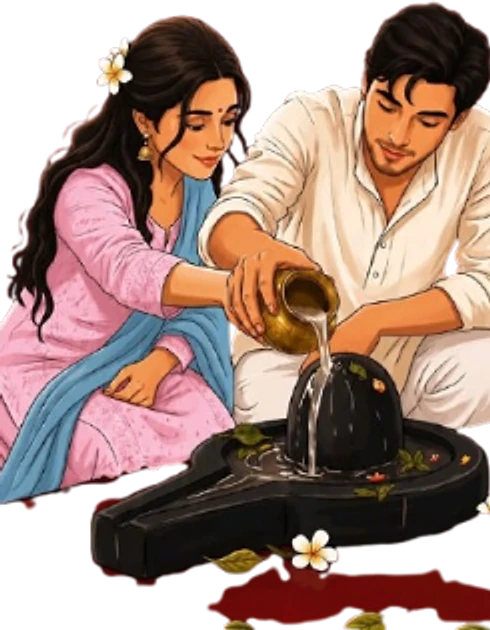
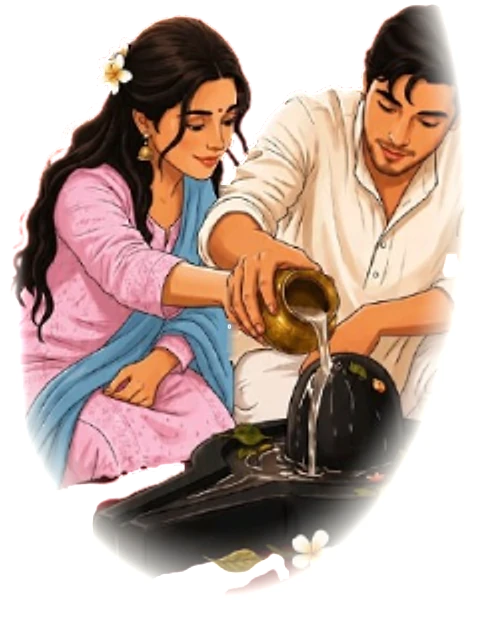
Phase 4: the couple at the Shivling, painted in like a watercolour
- The invitation glides up to the couple after 5 s of reading time unless
  the guest has already touched or scrolled (invitation.autoAdvanceMs)
- The gold thread continues into the section; the illustration blooms in
  through the watercolour mask while its colour deepens, then settles into
  soft generated clouds (they will part for the countdown)
- Names, "are beginning their forever" and a Lagna / Wedding Ceremony card
  with date, time (with zone) and venue from the config
- Illustration edges feathered into a white watercolour vignette; pinholes
  in the original cut-out mended

diff --git a/src/components/sections/Couple.tsx b/src/components/sections/Couple.tsx
@@ -1,0 +1,159 @@
+import { useMemo, useRef, type CSSProperties } from "react";
+import { wedding } from "@/config/wedding";
+import { useInView } from "@/hooks/useInView";
+import { usePrefersReducedMotion } from "@/hooks/useMediaQuery";
+import { EASE } from "@/lib/motion";
+import { formatVenueDate, parseVenueDateTime, venueInstant, zoneLabel } from "@/lib/venueTime";
+import { Reveal } from "@/components/ui/Reveal";
+
+/**
+ * Section 02 — a sacred beginning (PRD §4).
+ *
+ * The invitation's gold thread arrives from above. The couple at the
+ * Shivling paints itself in like a watercolour (a bloom that spreads while
+ * the colour deepens), settling into soft clouds; the names, the promise
+ * and the ceremony details follow. It plays once — scrolling away and back
+ * never repaints it.
+ */
+export function Couple() {
+  const ref = useRef<HTMLElement>(null);
+  const seen = useInView(ref, { threshold: 0.15 });
+  const reduced = usePrefersReducedMotion();
+  const at = (ms: number) => (reduced ? 0 : ms);
+
+  const { hero, couple, venue, assets } = wedding;
+
+  const details = useMemo(() => {
+    const parts = parseVenueDateTime(wedding.wedding.dateTime);
+    if (!parts) return null;
+    const date = formatVenueDate(parts);
+    const zone =
+      parts.hour === null ? null : zoneLabel(venueInstant(parts, wedding.wedding.timeZone), wedding.wedding.timeZone);
+    return { date, zone };
+  }, []);
+
+  const paint: CSSProperties = reduced
+    ? { opacity: seen ? 1 : 0, transition: "opacity 500ms linear" }
+    : {
+        opacity: seen ? 1 : 0,
+        maskSize: seen ? "320% 320%" : "30% 30%",
+        WebkitMaskSize: seen ? "320% 320%" : "30% 30%",
+        filter: seen ? "saturate(1) brightness(1)" : "saturate(0.3) brightness(1.1)",
+        transition: [
+          `opacity 700ms ease-out 150ms`,
+          `mask-size 2400ms ${EASE.silk} 150ms`,
+          `-webkit-mask-size 2400ms ${EASE.silk} 150ms`,
+          `filter 2600ms ${EASE.silk} 350ms`,
+        ].join(", "),
+      };
+
+  return (
+    <section
+      id="couple"
+      ref={ref}
+      aria-labelledby="couple-heading"
+      className="relative flex flex-col items-center px-[var(--gutter)] pb-12 text-center"
+    >
+      {/* The invitation's gold thread, continuing down */}
+      <span
+        aria-hidden
+        className="block h-14 w-px bg-gradient-to-b from-gold to-gold-ink/60"
+        style={{
+          transformOrigin: "top",
+          transform: seen ? "scaleY(1)" : "scaleY(0)",
+          transition: `transform 900ms ${EASE.silk}`,
+        }}
+      />
+
+      <Reveal
+        show={seen}
+        delay={at(250)}
+        as="p"
+        className="mt-3 font-sans text-[11px] font-medium uppercase tracking-eyebrow text-slate"
+      >
+        {hero.welcome}
+      </Reveal>
+
+      <figure className="relative mt-3 w-[min(86vw,370px)]">
+        <div
+          className="watercolor-reveal"
+          style={{ ...paint, "--watercolor-mask": `url(${assets.watercolorMask})` } as CSSProperties}
+        >
+          <img
+            src={assets.heroCouple}
+            alt={hero.illustrationAlt}
+            width={490}
+            height={630}
+            loading="lazy"
+            decoding="async"
+            className="block h-auto w-full"
+          />
+        </div>
+        {/* The painting settles into soft clouds */}
+        <img
+          src={assets.clouds}
+          alt=""
+          aria-hidden
+          loading="lazy"
+          decoding="async"
+          className="pointer-events-none absolute bottom-[-14%] left-1/2 w-[165%] max-w-none"
+          style={{
+            opacity: seen ? 1 : 0,
+            transform: seen ? "translate(-50%, 0)" : "translate(-50%, 18px)",
+            transition: reduced
+              ? "opacity 500ms linear"
+              : `opacity 1400ms ${EASE.silk} ${at(700)}ms, transform 1800ms ${EASE.silk} ${at(700)}ms`,
+          }}
+        />
+      </figure>
+
+      <h2
+        id="couple-heading"
+        className="relative -mt-6 font-display text-[clamp(34px,10vw,44px)] font-semibold leading-tight text-navy"
+      >
+        <Reveal show={seen} delay={at(1000)} as="span" className="block">
+          {couple.bride.displayName} <span className="font-medium italic text-gold-ink">&amp;</span>{" "}
+          {couple.groom.displayName}
+        </Reveal>
+      </h2>
+      <Reveal
+        show={seen}
+        delay={at(1200)}
+        as="p"
+        className="relative mt-1 font-script text-[32px] leading-tight text-gold-ink"
+      >
+        {hero.tagline}
+      </Reveal>
+
+      {details && (
+        <Reveal show={seen} delay={at(1450)} className="relative mt-7 w-full max-w-[22rem]">
+          <div className="rounded-[28px] border border-gold/60 bg-ivory/70 px-4 pb-5 pt-4 shadow-[0_14px_34px_-22px_rgb(23_59_86/0.45)] backdrop-blur-[2px]">
+            <p className="font-deva text-[18px] leading-none text-gold-ink" lang="hi">
+              {hero.ceremonyLabel}
+            </p>
+            <h3 className="mt-1 text-[26px]">{hero.ceremony}</h3>
+            <dl className="mt-4 grid grid-cols-3 divide-x divide-gold/50">
+              <Detail
+                label="Date"
+                value={`${details.date.day} ${details.date.monthShort} ${details.date.year}`}
+                note={details.date.weekday}
+              />
+              <Detail label="Time" value={details.date.time ?? "To be announced"} note={details.zone} />
+              <Detail label="Venue" value={venue.name} note={venue.city} />
+            </dl>
+          </div>
+        </Reveal>
+      )}
+    </section>
+  );
+}
+
+function Detail({ label, value, note }: { label: string; value: string; note: string | null }) {
+  return (
+    <div className="flex flex-col items-center px-2">
+      <dt className="font-sans text-[10px] font-medium uppercase tracking-eyebrow text-gold-ink">{label}</dt>
+      <dd className="mt-1.5 text-balance font-display text-[19px] font-semibold leading-tight text-navy">{value}</dd>
+      {note && <dd className="mt-0.5 font-sans text-[12px] text-slate">{note}</dd>}
+    </div>
+  );
+}

diff --git a/src/components/sections/Invitation.tsx b/src/components/sections/Invitation.tsx
@@ -3,6 +3,7 @@ import { wedding } from "@/config/wedding";
 import { useGuest } from "@/context/GuestContext";
 import { usePrefersReducedMotion } from "@/hooks/useMediaQuery";
 import { EASE } from "@/lib/motion";
+import { glideTo, USER_INPUT_EVENTS } from "@/lib/scroll";
 import { formatVenueDate, parseVenueDateTime } from "@/lib/venueTime";
 import { Ganpati } from "@/components/art/Ganpati";
 import { Emblem } from "@/components/ui/Emblem";
@@ -16,6 +17,7 @@ import { Reveal } from "@/components/ui/Reveal";
  * a ring, and Ganpati draws himself inside it. Then the mantra, the
  * blessing, the quote, the guest's greeting and the couple's names arrive
  * in a gentle stagger, closed by the date and a gold thread leading down.
+ * Once it has been read, it glides up and the couple's section rises in.
  */
 
 type Phase = "hidden" | "emblem" | "open";
@@ -24,6 +26,8 @@ type Phase = "hidden" | "emblem" | "open";
 const RING_SCALE = 0.469;
 /** How long the landed emblem rests before opening. */
 const EMBLEM_REST_MS = 560;
+/** From the medallion opening until the whole invitation is on screen. */
+const STAGGER_MS = 2800;
 
 export function Invitation({ revealed }: { revealed: boolean }) {
   const { guestName } = useGuest();
@@ -45,6 +49,30 @@ export function Invitation({ revealed }: { revealed: boolean }) {
   }, [revealed, reduced]);
 
   const open = phase === "open";
+
+  // Invitation → Hero (PRD §5): after reading time, glide up to the couple —
+  // unless the guest has already touched, scrolled or pressed anything.
+  useEffect(() => {
+    const readingMs = wedding.invitation.autoAdvanceMs;
+    if (!open || reduced || !readingMs) return;
+    let touched = false;
+    const onInput = () => {
+      touched = true;
+    };
+    USER_INPUT_EVENTS.forEach((type) => window.addEventListener(type, onInput, { passive: true }));
+    let stopGlide = () => {};
+    const timer = window.setTimeout(() => {
+      const next = document.getElementById("couple");
+      if (touched || !next || window.scrollY > 40) return;
+      stopGlide = glideTo(next.getBoundingClientRect().top + window.scrollY, 1600);
+    }, STAGGER_MS + readingMs);
+    return () => {
+      clearTimeout(timer);
+      stopGlide();
+      USER_INPUT_EVENTS.forEach((type) => window.removeEventListener(type, onInput));
+    };
+  }, [open, reduced]);
+
   // The stagger, in ms after the medallion opens (all at once with reduced motion).
   const at = (ms: number) => (reduced ? 0 : ms);
 

diff --git a/src/config/wedding.ts b/src/config/wedding.ts
@@ -33,6 +33,20 @@ export const wedding = {
     quote: "Two hearts, one sacred journey,\nblessed by the divine.",
     greeting: "Dear {guest},",
     request: "request the honour of your presence at their wedding",
+    /**
+     * Once the invitation has been on screen this long (ms) and the guest
+     * hasn't touched anything, it glides up to reveal the couple. 0 = never.
+     */
+    autoAdvanceMs: 5000,
+  },
+
+  /** Section 02 — the couple, at the Shivling. */
+  hero: {
+    welcome: "Welcome, Dear Guests",
+    tagline: "are beginning their forever",
+    ceremonyLabel: "लग्न",
+    ceremony: "Wedding Ceremony",
+    illustrationAlt: "The couple offering water to the Shivling together",
   },
 
   /** Personalised links: ?guest=Ananya (also ?to= or ?name=). */
@@ -64,8 +78,10 @@ export const wedding = {
     },
     /** Soft-edged bloom used for every watercolour reveal. */
     watercolorMask: "/art/watercolor-mask.png",
-    /** Couple at the Shivling — the hero illustration (Phase 4). */
+    /** Couple at the Shivling — the hero illustration. */
     heroCouple: "/art/couple-shivling.webp",
+    /** Soft cloud bank the hero settles into (it parts for the countdown). */
+    clouds: "/art/clouds.webp",
   },
 
   /** Artwork credits shown on the site. */

diff --git a/src/lib/scroll.ts b/src/lib/scroll.ts
@@ -1,0 +1,31 @@
+/** Things a guest does that mean "I'm in charge of scrolling now". */
+export const USER_INPUT_EVENTS = ["wheel", "touchstart", "pointerdown", "keydown"] as const;
+
+/** Slow in-out, matching EASE.drift. */
+const drift = (t: number) => (t < 0.5 ? 4 * t * t * t : 1 - Math.pow(-2 * t + 2, 3) / 2);
+
+/**
+ * Glides the page to `y` over `duration` ms. Any touch, wheel or key press
+ * hands control straight back to the guest. Returns a cancel function.
+ */
+export function glideTo(y: number, duration: number): () => void {
+  const from = window.scrollY;
+  const distance = y - from;
+  const start = performance.now();
+  let frame = 0;
+
+  const stop = () => {
+    cancelAnimationFrame(frame);
+    USER_INPUT_EVENTS.forEach((type) => window.removeEventListener(type, stop));
+  };
+  USER_INPUT_EVENTS.forEach((type) => window.addEventListener(type, stop, { passive: true }));
+
+  const step = (now: number) => {
+    const t = Math.min(1, (now - start) / duration);
+    window.scrollTo(0, from + distance * drift(t));
+    if (t < 1) frame = requestAnimationFrame(step);
+    else stop();
+  };
+  frame = requestAnimationFrame(step);
+  return stop;
+}

diff --git a/src/components/Experience.tsx b/src/components/Experience.tsx
@@ -1,6 +1,7 @@
 import { useState } from "react";
 import { Preloader } from "@/components/opening/Preloader";
 import { Invitation } from "@/components/sections/Invitation";
+import { Couple } from "@/components/sections/Couple";
 
 type OpeningState = "playing" | "revealing" | "done";
 
@@ -11,9 +12,8 @@ export function Experience() {
   return (
     <>
       <Invitation revealed={opening !== "playing"} />
-      {opening !== "done" && (
-        <Preloader onReveal={() => setOpening("revealing")} onDone={() => setOpening("done")} />
-      )}
+      <Couple />
+      {opening !== "done" && <Preloader onReveal={() => setOpening("revealing")} onDone={() => setOpening("done")} />}
     </>
   );
 }

diff --git a/src/lib/venueTime.ts b/src/lib/venueTime.ts
@@ -30,6 +30,7 @@ export interface FormattedVenueDate {
   weekday: string; // "Sunday"
   day: string; // "14"
   month: string; // "February"
+  monthShort: string; // "Feb"
   year: string; // "2027"
   time: string | null; // "7:30 PM"
 }
@@ -43,6 +44,7 @@ export function formatVenueDate(p: VenueDateTime, locale = "en-IN"): FormattedVe
     weekday: fmt({ weekday: "long" }),
     day: String(p.day),
     month: fmt({ month: "long" }),
+    monthShort: fmt({ month: "short" }),
     year: String(p.year),
     time: p.hour === null ? null : fmt({ hour: "numeric", minute: "2-digit", hour12: true }).toUpperCase(),
   };

diff --git a/README.md b/README.md
@@ -70,15 +70,28 @@ The hand layers in `public/art/opening/` were cut from `art-source/hands-night-A
 2. Ganpati, a gold line drawing (`src/components/art/Ganpati.tsx`), draws himself inside the ring. He carries Shiva's tripundra on his brow.
 3. The mantra, the blessing, the quote, the guest's greeting ("Dear Ananya,"), the couple's names and the date follow in a gentle stagger.
 4. A gold thread leads down to the next section.
+5. After the guest has had time to read it (`invitation.autoAdvanceMs`, 5 s), the page glides up to the couple. Any touch or scroll cancels the glide; set it to `0` to switch it off.
 
 The words live in `invitation` in `src/config/wedding.ts`.
+
+## The couple (Section 02)
+
+`src/components/sections/Couple.tsx`:
+
+1. The gold thread arrives from above.
+2. The couple at the Shivling paints itself in like a watercolour: a bloom spreads while the colour deepens.
+3. The painting settles into soft clouds, and the names, "are beginning their forever" and the Lagna / Wedding Ceremony card (date, time, venue) follow.
+
+It plays once; scrolling away and back doesn't repaint it.
+
+The illustration's cut edges (his shoulder, the petals) were feathered into a white watercolour vignette, and small holes in the original cut-out were mended. The clouds (`public/art/clouds.webp`) are generated, and they will part for the countdown.
 
 ## Build phases
 
 - [x] 1. Global shell: fonts, tokens, guest context, breakpoints, desktop phone mockup
 - [x] 2. Opening animation + Skip
 - [x] 3. Invitation
-- [ ] 4. Couple / Hero
+- [x] 4. Couple / Hero
 - [ ] 5. Countdown
 - [ ] 6. Our Story
 - [ ] 7. Events
